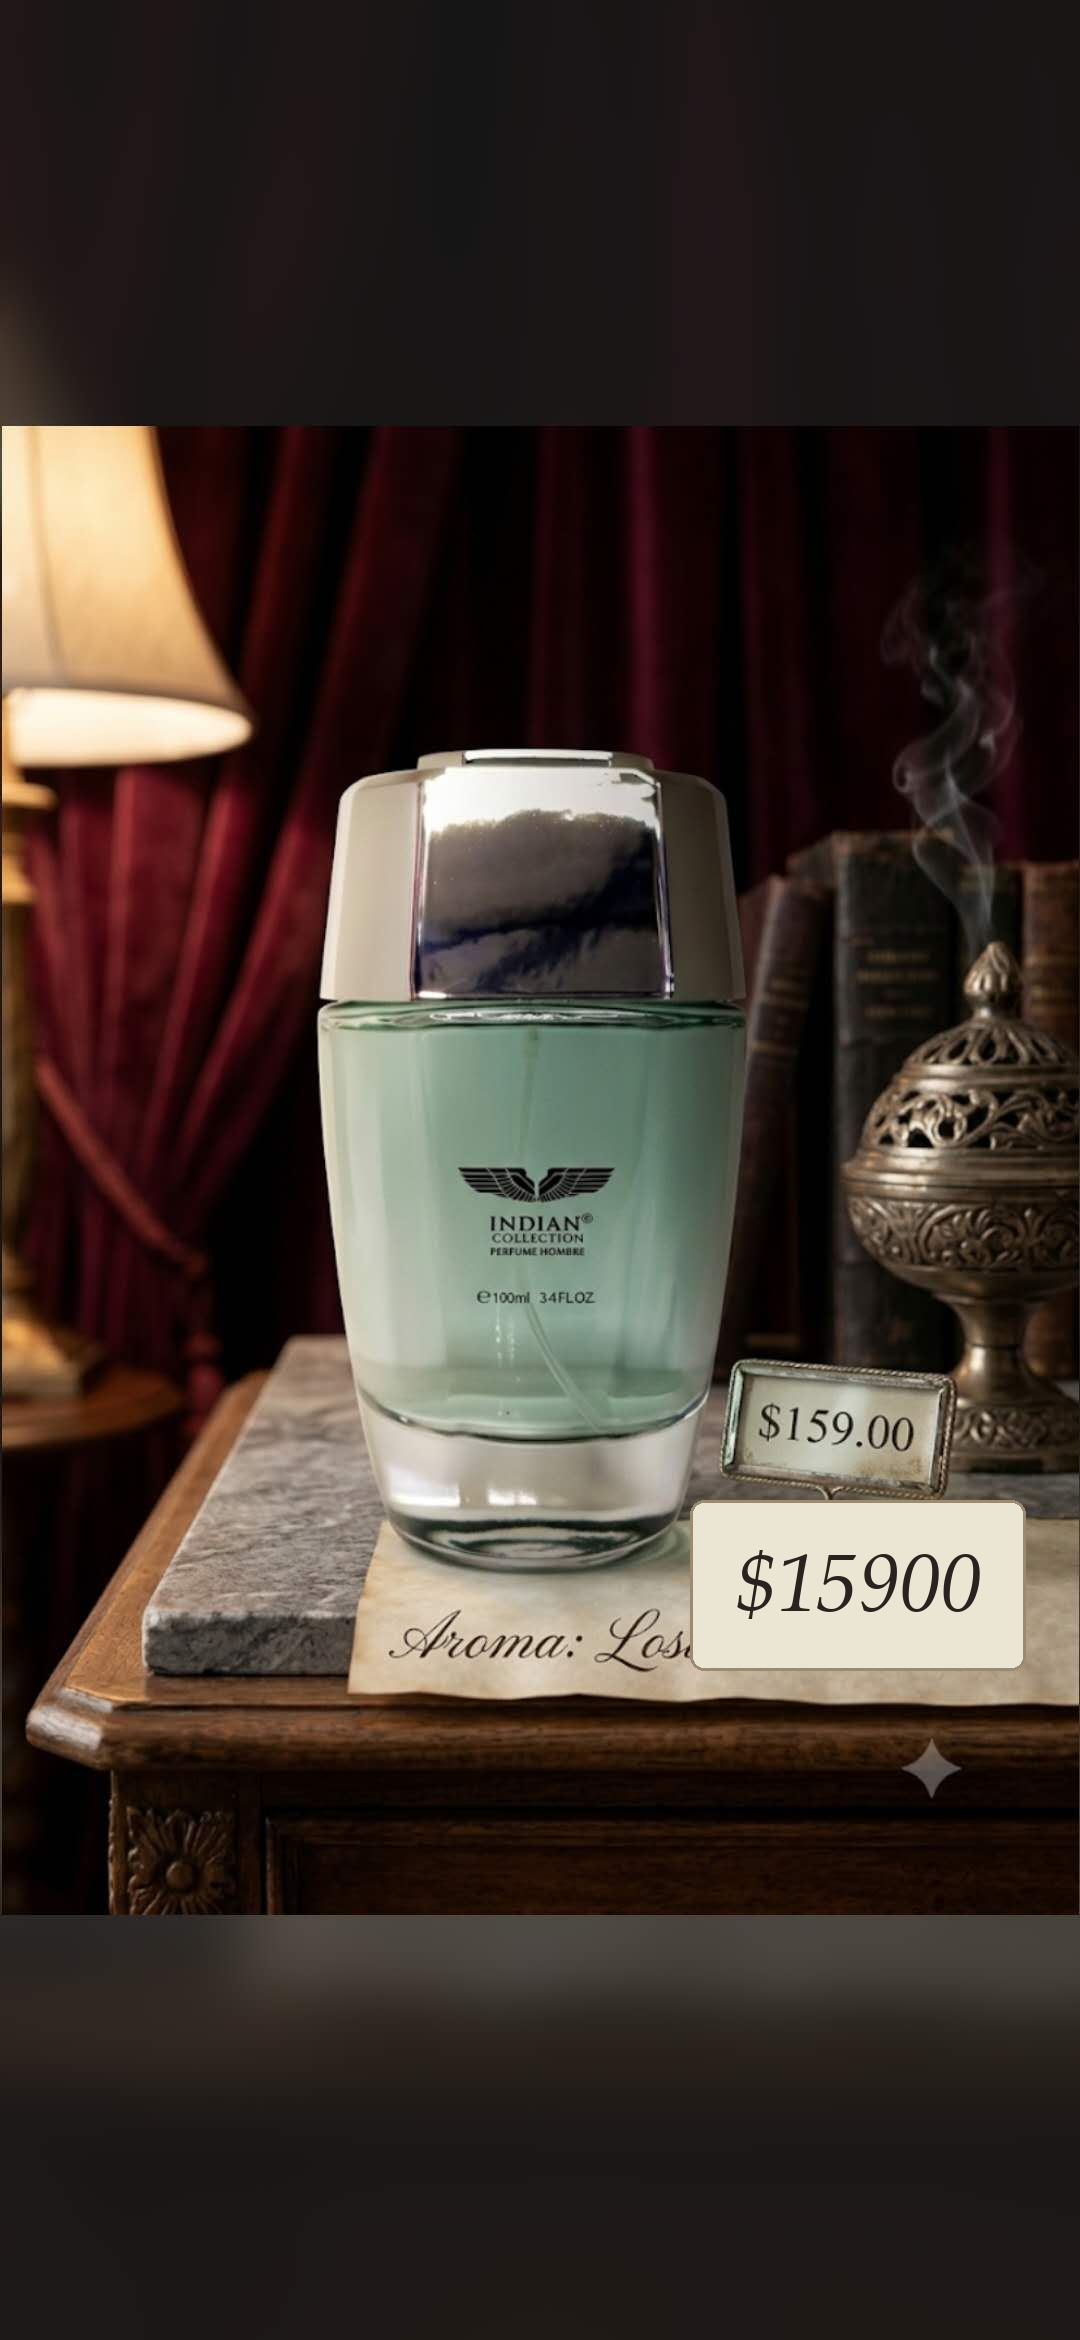
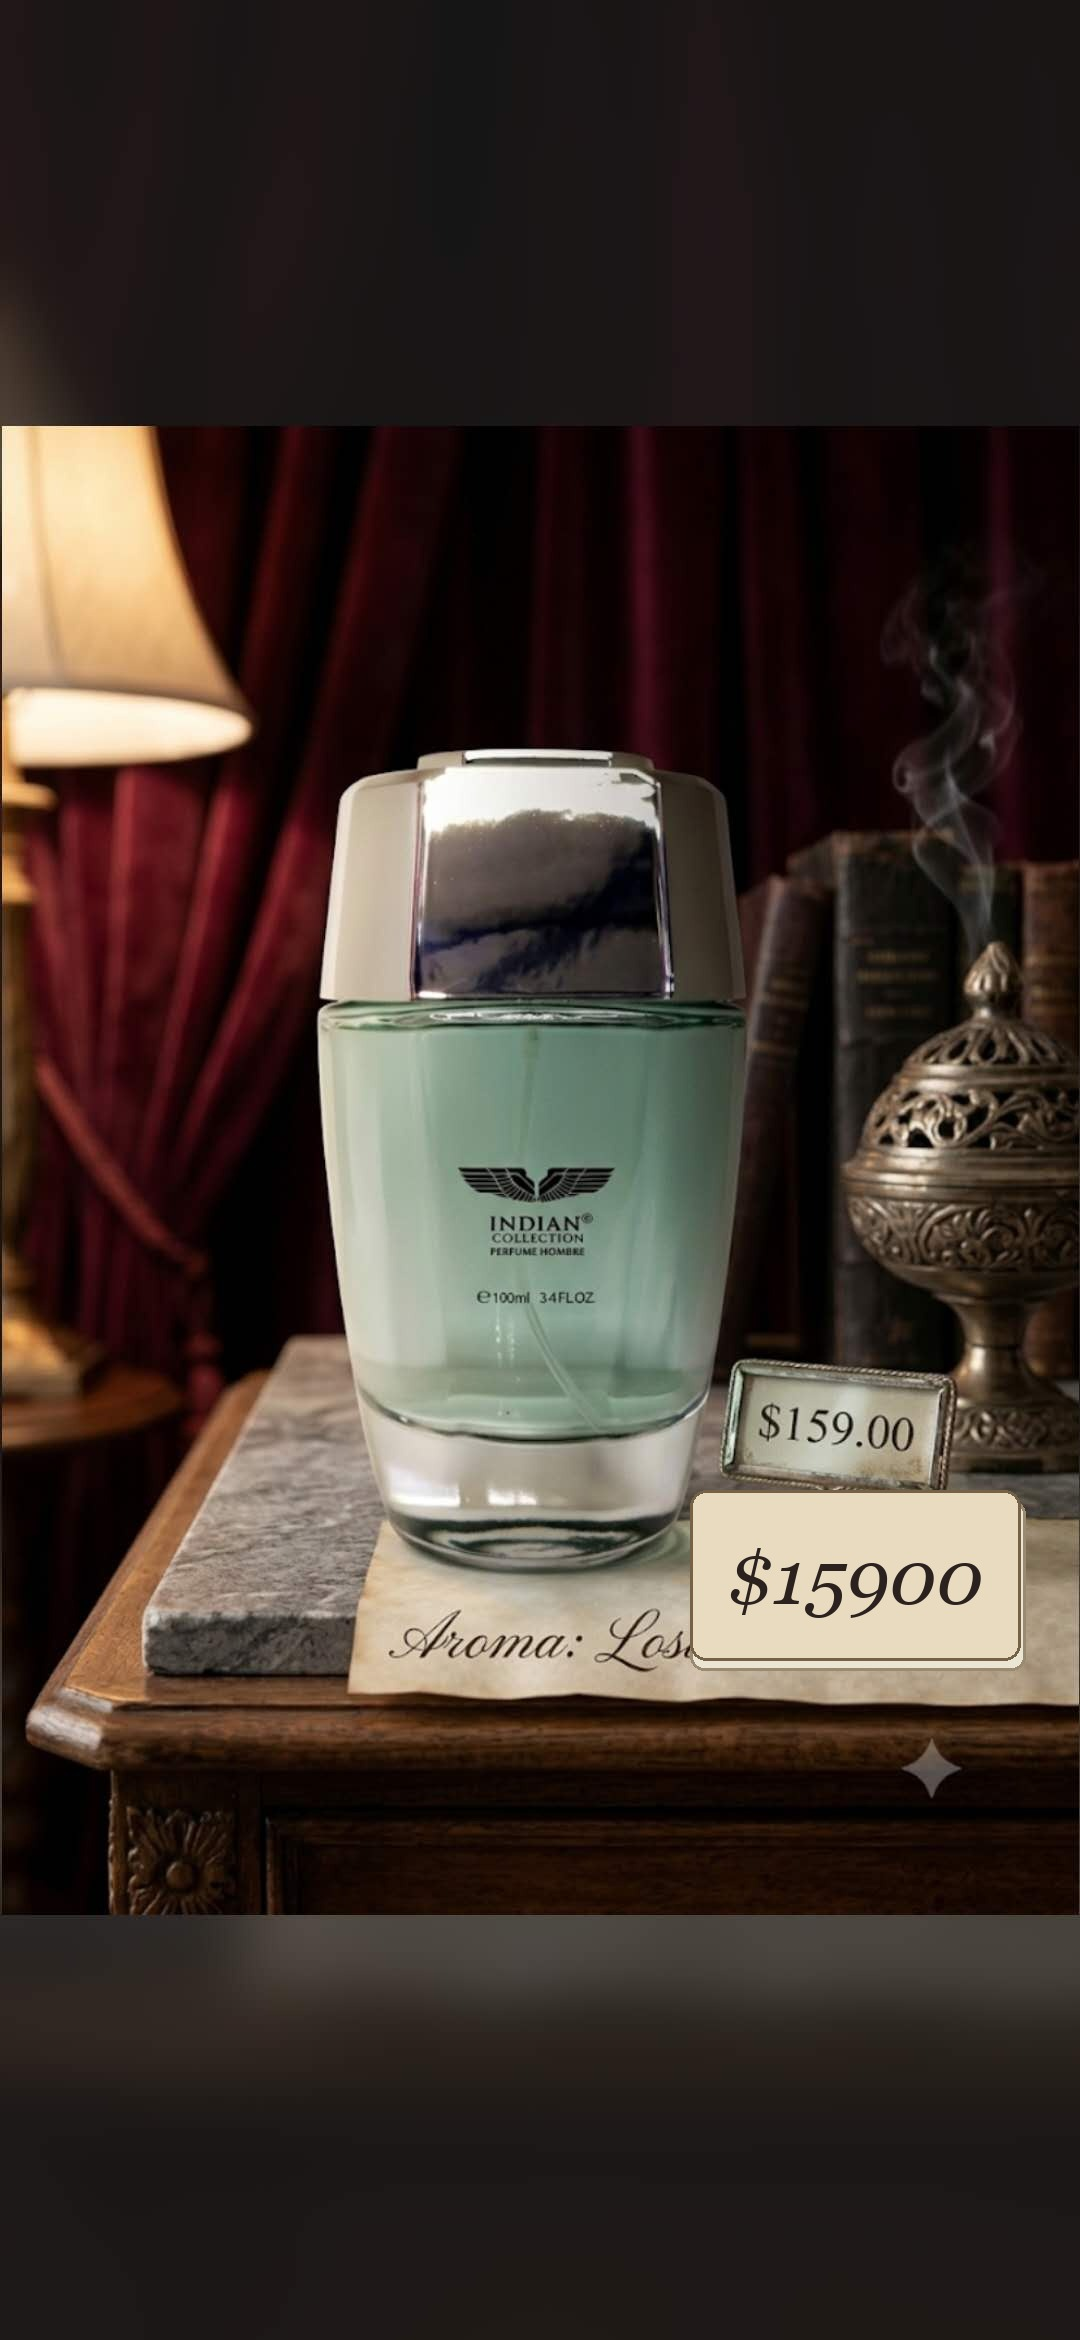
Fix men temptation price label as 15900

Changed region(s): [[0.6417, 0.6239, 0.9472, 0.7175]]

diff --git a/index.html b/index.html
@@ -221,7 +221,7 @@
             <img src="pefumes/perfumes de hombre/men_oceano_15900.jpg" alt="Men's ocean perfume display.">
           </article>
           <article class="perfume-item reveal">
-            <img src="pefumes/perfumes de hombre/men_tentacion_15900.jpg" alt="Men's temptation perfume display.">
+            <img src="pefumes/perfumes de hombre/men_tentacion_15900.jpg?v=price-15900-1" alt="Men's temptation perfume display.">
           </article>
           <article class="perfume-item reveal">
             <img src="pefumes/perfumes de hombre/men_selvatica_15900.jpg" alt="Men's selvatica perfume display.">